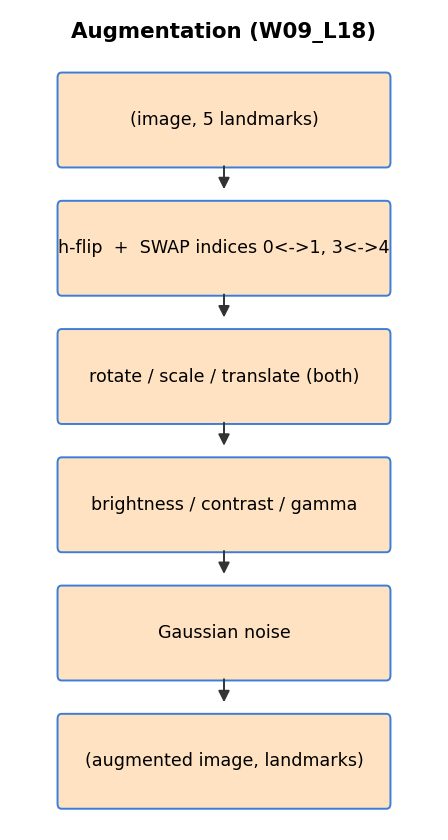
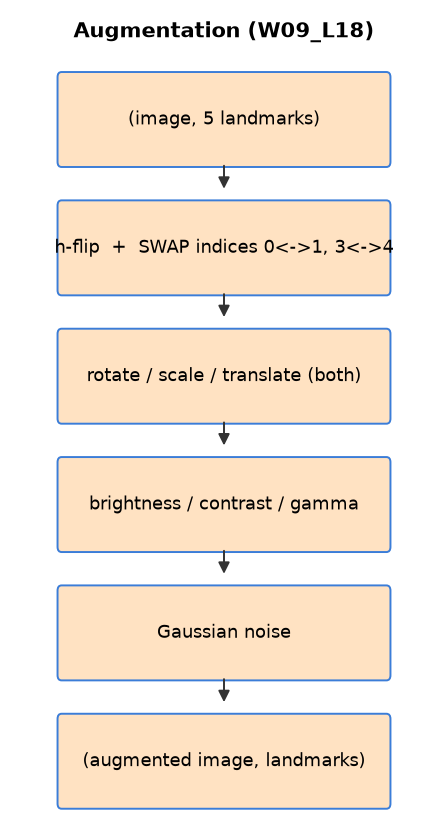
docs(task2): remove the demo figures that use synthetic data
The CED plot and the box plot came from random data. Such a figure cannot show
the performance on the validation set, and the reader can make an incorrect
conclusion. The script run_task2.py now makes the two figures from the real
validation set. Thus make_figures.py makes only the diagrams of the methods.

diff --git a/task2_cv/make_figures.py b/task2_cv/make_figures.py
@@ -1,7 +1,13 @@
-"""Generate Task 2 figures: pipeline/aug flowcharts, CNN architecture, and demo
-CED + robustness plots (the latter on synthetic data to verify the eval code)."""
+"""Generate the Task 2 *method* diagrams: the preprocessing and augmentation
+flowcharts and the heatmap-CNN architecture.
+
+Nothing here plots results. Every CED curve, boxplot, landmark example and
+robustness sweep is produced by run_task2.py from the real validation set --
+this file used to emit synthetic demo versions of them as placeholders, and
+those are exactly what the previous submission was marked down for. If a plot
+shows numbers, it came from the real data.
+"""
 import os, sys
-import numpy as np
 import matplotlib
 matplotlib.use("Agg")
 import matplotlib.pyplot as plt
@@ -61,20 +67,4 @@ ax.text(5.5, 0.55, "loss = MSE(pred heatmap, Gaussian target) + 0.1 * MSE(decode
         ha="center", fontsize=8.5, style="italic")
 fig.tight_layout(); fig.savefig(os.path.join(FIG, "cnn_heatmap_arch.png"), dpi=140); plt.close(fig)
 
-# 4 & 5. demo CED + robustness on synthetic data (proves eval plotting works)
-from evaluate import plot_ced, plot_boxplots, normalised_errors
-rng = np.random.default_rng(1)
-gt = rng.uniform(8, 56, (200, 5, 2))
-# three synthetic "models" with increasing accuracy
-curves = {
-    "mean-face (floor)": normalised_errors(gt + rng.normal(0, 6, gt.shape), gt),
-    "HOG+shape model":   normalised_errors(gt + rng.normal(0, 2.5, gt.shape), gt),
-    "heatmap CNN":       normalised_errors(gt + rng.normal(0, 1.3, gt.shape), gt),
-}
-ts = np.linspace(0, 0.30, 100)
-plot_ced(curves, ts, os.path.join(FIG, "ced_demo.png"),
-         title="CED (DEMO on synthetic data - not real faces)")
-plot_boxplots(curves, os.path.join(FIG, "boxplot_demo.png"),
-              title="Per-point error (DEMO on synthetic data)")
-
-print("Task 2 figures written:", sorted(os.listdir(FIG)))
+print("Task 2 method diagrams written. Result figures come from run_task2.py.")
